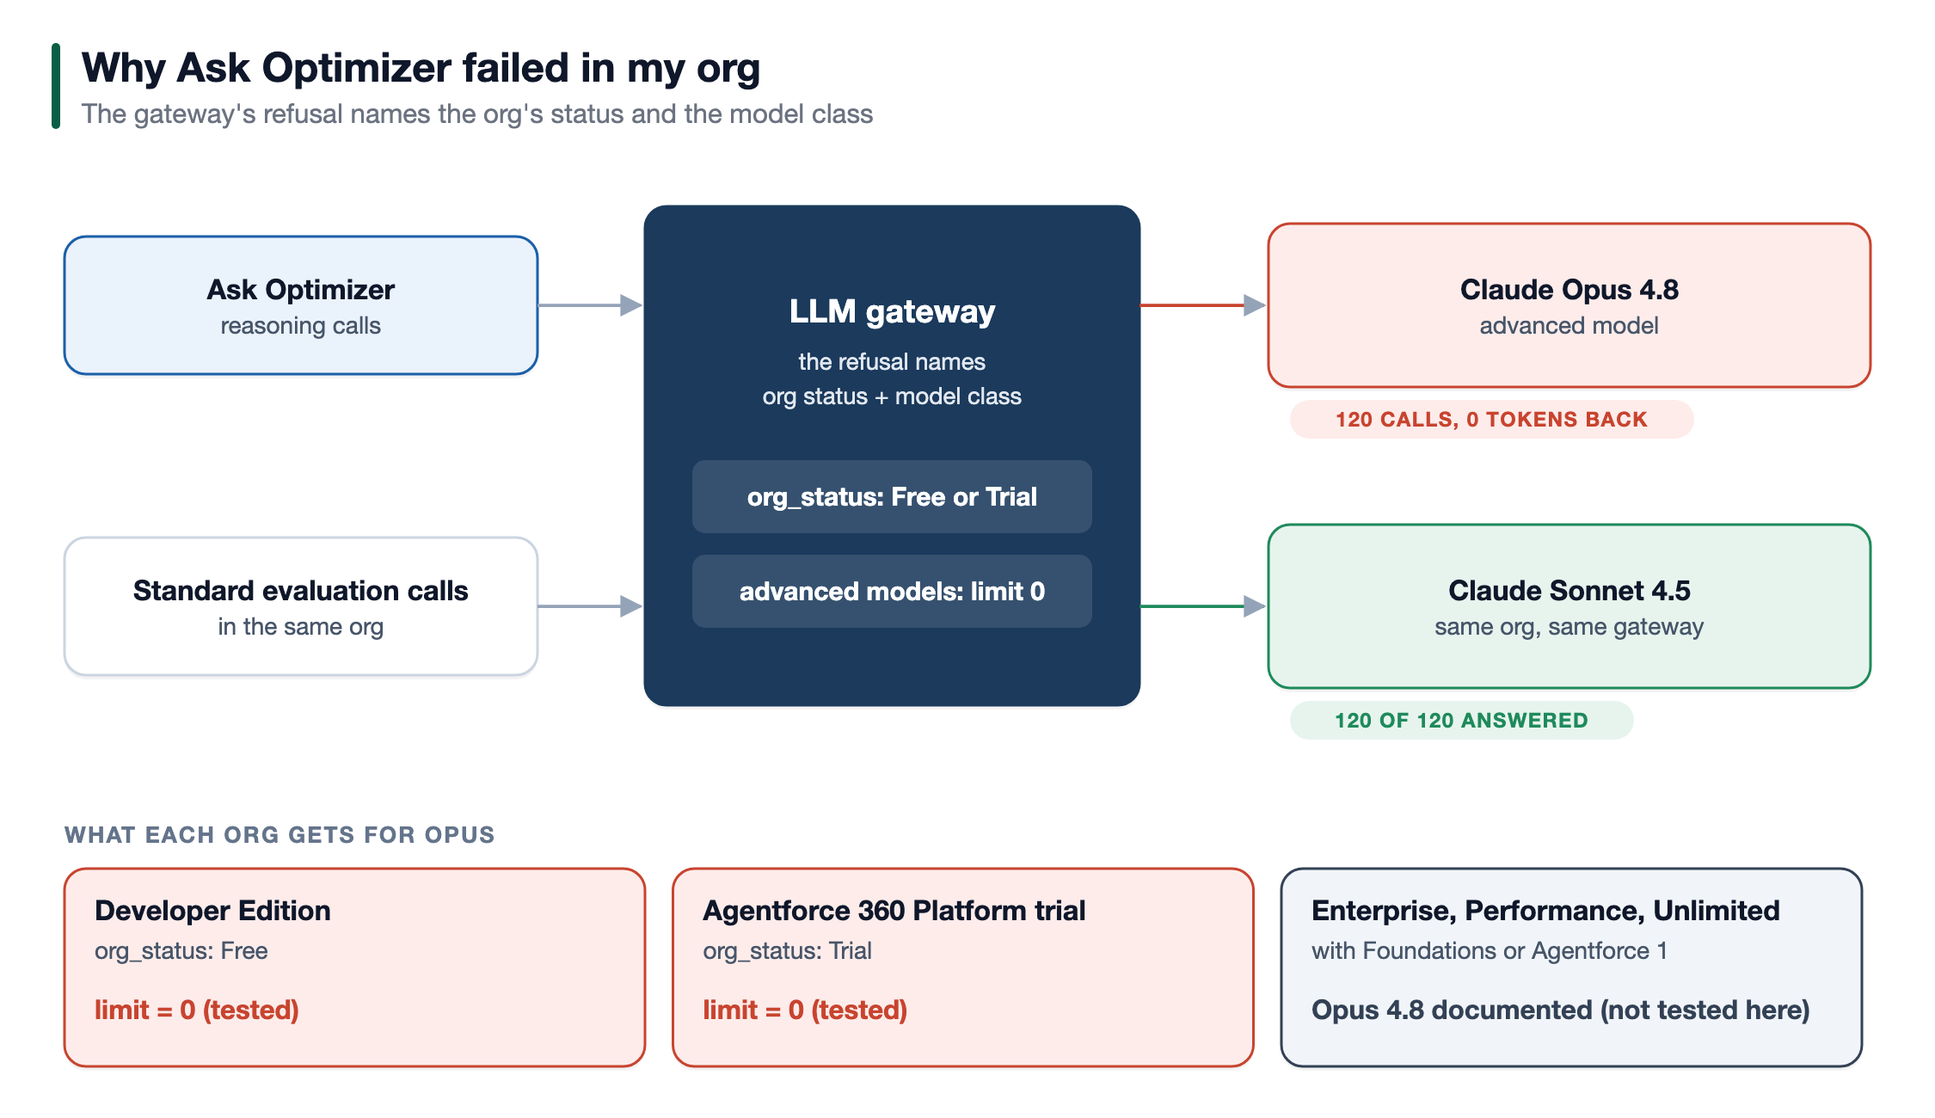
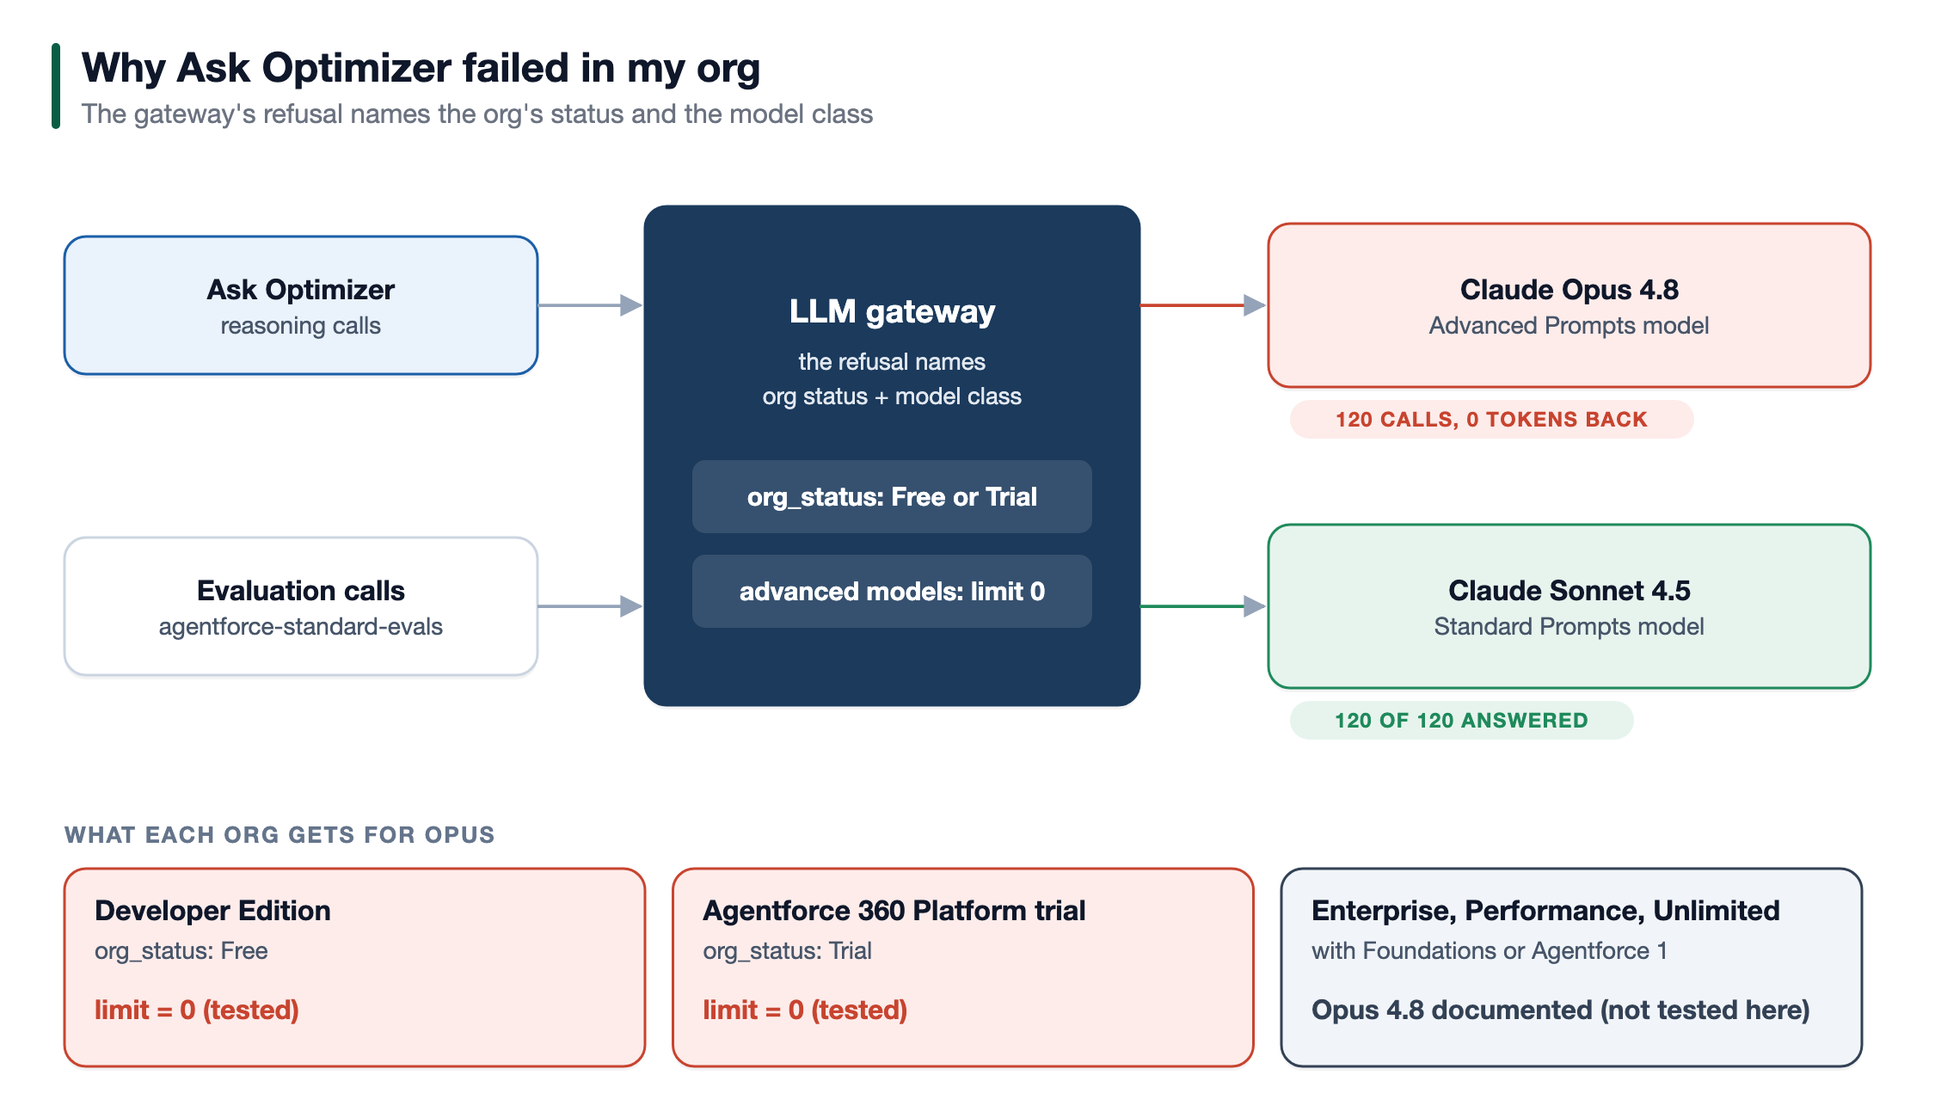
Make the after half runnable and back every claim with stored evidence
- npm run deploy now deploys only the object, flows, Apex and permission
  sets; the agent is published by sf agent publish and the test definition
  goes in afterwards with npm run deploy:test
- Running the test: one CLI path, the Optimizer setup and permission set,
  a timeframe guard so Optimizer never reads test runs, and the v2 steps
- New section on using the method with your own agent, including the
  production-to-sandbox pattern Salesforce describes
- Judge after runs question by question instead of by a flip-count total
- Cite Salesforce's free/trial Advanced Prompts rule and model list
- Store the raw model-check output (Developer Edition and trial) and the
  gateway's model calls by feature; add npm run logs:models
- Scripts work from paths with spaces and on Windows; the scorer refuses a
  phase with missing runs
- Fix the setup-steps figure order, drop "Part 2" from the loop figure, and
  reference every image

Changed region(s): [[0.0622, 0.5231, 0.2489, 0.5846], [0.7467, 0.2769, 0.9022, 0.3077], [0.7467, 0.5538, 0.8711, 0.5846]]

diff --git a/README.md b/README.md
@@ -16,9 +16,13 @@ problems, and score it again. Same questions. Same rules. Only the agent
 changes.
 
 The "before" is done: the day-one agent passes **17 of 30** questions. The
-"after" was blocked in the free and trial orgs I tested, and this repo shows
-why: Agent Optimizer reasons with Claude Opus, and in both orgs Salesforce's
-gateway refused Opus with a limit of **zero**, naming the org as Free or Trial.
+"after" was blocked in the free and trial orgs I tested. There, Agent
+Optimizer's reasoning calls went to Claude Opus 4.8, and Salesforce's gateway
+refused Opus with a limit of **zero**, naming the org as Free or Trial.
+Salesforce documents the rule: models configured for Advanced Prompts, Opus 4.8
+among them, are unavailable in free and trial orgs
+([release note](https://help.salesforce.com/s/articleView?id=release-notes.rn_einstein_models_new_limits_free_trial.htm&release=264&type=5),
+[model list](https://help.salesforce.com/s/articleView?id=ai.generative_ai_large_language_model_support.htm&type=5)).
 Everything here is ready to run the after half in an org that can call Opus.
 
 ### At a glance
@@ -35,7 +39,8 @@ Everything here is ready to run the after half in an org that can call Opus.
 **Contents:** [What's here](#whats-here) ·
 [What makes the test fair](#what-makes-the-test-fair) ·
 [Quick start](#quick-start) · [Running the test](#running-the-test) ·
-[Results](#results) · [Lessons](#what-building-this-taught-me) ·
+[Your own agent](#using-it-on-your-own-agent) · [Results](#results) ·
+[Lessons](#what-building-this-taught-me) ·
 [Repo layout](#repo-layout) · [Verify everything](#verify-everything)
 
 ---
@@ -68,10 +73,13 @@ from the 60 practice conversations. `npm run check` fails if a practice line
 shares four words in a row with a test question, or mentions a test order or
 email.
 
+![The test loop: the test set scores the agent and never reaches Optimizer](docs/images/loop.png)
+
 **Three runs, not one.** Agents do not give the same answer every time. Each
 version runs the full set three times, and a question passes if it passes in
-at least two. The three baseline runs also show how much the score moves when
-nothing has changed. A gain smaller than that is noise.
+at least two. The three baseline runs also show how much the result moves
+when nothing has changed: five questions flipped. So judge an "after" run
+question by question, not by its total (see [Results](#results)).
 
 **Security in the flow, judgment in the agent.** Both flows return order data
 only when the order number and the email match. A wrong email and a missing
@@ -95,11 +103,13 @@ The 30-day return window lands the same way every time.
 
 ## Quick start
 
-**Check the model first.** Agent Optimizer reasons with Claude Opus, which
-was limited to zero calls in the Developer Edition and trial orgs I tested. Run
-`npm run check:model -- --target-org <your-org>` before
-anything else: if Opus is refused with `limit=0`, Optimizer can't reach
-the model it reasons with there.
+**Check the model first.** In the Developer Edition and trial orgs I tested,
+Agent Optimizer's reasoning calls went to Claude Opus 4.8, which those orgs
+could not call. Once you have logged in (below), run
+`npm run check:model -- --target-org <your-org>` before anything else: if
+Opus is refused with `limit=0`, Optimizer can't reach the model it reasons
+with there. If your gateway logs show Optimizer calling a newer Opus, put
+that model's API name in the script.
 
 **Requirements:** Salesforce CLI 2.150+, Node 22+, and an org with Agentforce,
 Testing Center, Lightning Knowledge, and Data Cloud. Knowledge answers go
@@ -107,6 +117,11 @@ through an Agentforce Data Library, and a Data Library needs Data Cloud. The
 baseline runs in a Developer Edition org. The "after" half also needs Agent
 Optimizer (Beta), turned on in Setup, in an org where the check above shows
 Opus answering: a sandbox of a paid Agentforce org is the likely fit.
+
+**Cost:** Salesforce says Testing Center runs consume requests and credits.
+The full method is 180 test executions (30 questions, three runs, two
+versions) plus 60 practice conversations. Salesforce also says using Agent
+Optimizer itself doesn't consume Agentforce credits.
 
 > **Never use a production org.** Testing Center runs your actions for real, so
 > Create Return Case opens real Cases, and test runs use credits. Use a sandbox,
@@ -122,7 +137,7 @@ sf org login web --alias optimizer-test
 sf org display --target-org optimizer-test   # confirm it is NOT production
 sf config set target-org=optimizer-test
 
-npm run deploy                         # object, fields, flows, Apex test, permission sets
+npm run deploy                         # object, fields, flows, Apex test, permission sets (not the agent or the test)
 sf org assign permset --name Store_Orders_Admin
 npm run test:apex                      # both flows: match, wrong email, missing order
 npm run load:orders                    # the 12 sample orders, dated from today
@@ -146,22 +161,68 @@ and no Agent Optimizer. Run the real test in an org that has both.
 
 ## Running the test
 
-1. **Save the day-one agent as version 1** and activate it. Every baseline run
-   uses this version.
+1. **Publish and activate the day-one agent as version 1**, following
+   [docs/agent-setup.md](docs/agent-setup.md). Every baseline run uses this
+   version.
 2. **Re-run `npm run load:orders`** on the day you test, so the dates are fresh.
-3. **Load the test set into Testing Center.** Start from your org's CSV template
-   and copy the columns across from `test-set/test-set.csv`. See
+3. **Deploy the test:** `npm run deploy:test`. It is the 30 questions as the
+   Testing Center test `Store_Agent_30_Questions`, pointed at version 1. To
+   use the Testing Center screens instead, see
    [test-set/README.md](test-set/README.md).
-4. **Run it three times.** Copy each run's Pass or Fail into a copy of the
-   scoring sheet. Save each raw export in `results/baseline/`.
-5. **Turn on session tracing, then run the 60 practice conversations** against
-   the agent with `npm run practice -- <org>`, and point Optimizer at those
-   sessions. Never at the test set. See [practice/README.md](practice/README.md).
-6. **Review each recommendation against its evidence.** Apply only what points
+4. **Run it three times, then score:**
+
+   ```bash
+   sf agent test run --api-name Store_Agent_30_Questions --wait 90 \
+     --result-format json --output-dir results/baseline/run-1
+   # the same for run-2 and run-3, then:
+   npm run score -- baseline
+   ```
+
+   Your runs replace mine in `results/baseline/`; git keeps mine. Read every
+   answer the AI judge failed or passed, and log any verdict you overrule,
+   with its reason, in `results/baseline/overrides.csv`.
+5. **Turn on what Optimizer needs.** In Setup, Einstein Audit, Analytics,
+   and Monitoring Setup, turn on Agentforce Session Tracing (it turns on Agent
+   Optimization too), then Agent Optimizer (Beta) beneath it, and assign
+   yourself the **Access Agentforce Optimization** permission set. Tracing
+   records only conversations that start after it is on.
+
+   ![Session Tracing, Agent Optimization and Agent Optimizer (Beta) turned on in Setup](docs/images/setup-agent-optimizer-on.png)
+
+   ![From a fresh org to Ask Optimizer, in six steps](docs/images/setup-steps.png)
+
+6. **Run the 60 practice conversations** with `npm run practice -- <org>`.
+   They run your actions for real, so return requests open real Cases. See
+   [practice/README.md](practice/README.md).
+7. **Ask Optimizer about those sessions**, in Agentforce Studio under
+   Observe & Optimize. Name a timeframe in every question, one that holds the
+   practice sessions and no test run: without one, Optimizer picks a recent
+   default. Never upload the test set where Optimizer can read it.
+8. **Review each recommendation against its evidence.** Apply only what points
    to real failed conversations, changes only the agent, and stays inside what
    the agent was built to do. Log each decision in `results/recommendations.md`.
-7. **Save the changed agent as version 2** and run the same 30 questions three
-   more times. Save the raw exports in `results/after/`.
+9. **Publish the changed agent as version 2.** Change `subjectVersion` in
+   [the test definition](force-app/main/default/aiEvaluationDefinitions/Store_Agent_30_Questions.aiEvaluationDefinition-meta.xml)
+   to `v2`, run `npm run deploy:test`, run the same 30 questions three times
+   into `results/after/run-1` to `run-3`, and run `npm run score -- after`.
+
+## Using it on your own agent
+
+The sample agent shows the method. To hold Optimizer to account on your own
+agent:
+
+- **Write the questions from real transcripts,** across every subagent, and
+  include traps where the right answer is "no".
+- **Write the practice set from different transcripts,** and keep it free of
+  the test's wording, order numbers and customers.
+- **Find out which actions Testing Center records for your agent** before you
+  write the expected actions. Here, it never recorded the knowledge lookup or
+  the template's escalation step.
+- **Lock the test before run 1.** Add questions later; never edit old ones.
+- **Ask Optimizer where your real sessions are, and test in a sandbox.** In a
+  paid org, real sessions live in production, and Salesforce says to use
+  Testing Center only in a sandbox. Apply the recommendations to the agent in
+  a sandbox, run the test there, and promote only what passes.
 
 ---
 
@@ -194,7 +255,12 @@ The totals hide two things, and `npm run score` prints both:
   and fail with no change to the agent: OS-01, OS-05, OS-06, RT-02 and RT-03.
   Every one needed an order lookup, and each flip came down to whether the
   agent called Get Order Status. Routing mistakes failed in all three runs.
-  Treat an "after" gain of five or fewer as noise.
+  So the total alone can't tell a fix from luck. Judge the after runs
+  question by question: a question that failed every baseline run and passes
+  every after run is a real gain. For one that already flipped, check the
+  actions: if the lookup now runs every time, the fix is working. Anything
+  that passed every baseline run and fails two of three after runs is a
+  regression. Three runs are the minimum; five catch more of the noise.
 - **Answers alone flatter the agent.** Graded only on its answers, after the
   human review, the agent passes 24 of 30 in each run. Seven questions sounded right but skipped a
   lookup or went to the wrong subagent. None of the 36 failed runs failed on
@@ -207,8 +273,8 @@ Setup was complete, but every question to Ask Optimizer failed.
 
 ![Ask Optimizer failing next to a working Agent Analytics page](docs/images/ask-optimizer-error.png)
 
-Its reasoning calls go to Claude Opus 4.8, and Salesforce's model gatekeeper
-refuses them:
+In the gateway logs, its reasoning calls went to Claude Opus 4.8 (120 calls,
+0 tokens back). A direct call from Apex shows the gatekeeper's refusal:
 
 ```
 429 LLM_GATEKEEPER: You have exceeded your rate limit. Please try again later.
@@ -216,9 +282,15 @@ refuses them:
 ```
 
 The same limit of zero appears in an Agentforce 360 Platform trial org
-(`org_status:Trial`). Claude Sonnet answers in both. Run
-[`check-model-access.apex`](scripts/apex/check-model-access.apex) to see what
-your org reports.
+(`org_status:Trial`). Claude Sonnet answers in both. The raw outputs are in
+[`results/model-check/`](results/model-check), and the logged calls behind the
+figure below are in [`results/gateway/`](results/gateway). Salesforce's
+[release note](https://help.salesforce.com/s/articleView?id=release-notes.rn_einstein_models_new_limits_free_trial.htm&release=264&type=5)
+says models configured for Advanced Prompts are unavailable in free and trial
+orgs, and its [model list](https://help.salesforce.com/s/articleView?id=ai.generative_ai_large_language_model_support.htm&type=5)
+puts Opus 4.8 under Advanced Prompts and Sonnet 4.5 under Standard Prompts.
+Run `npm run check:model` to see what your org reports, and, with Einstein
+audit data on, `npm run logs:models` to see which model each feature called.
 
 ![Why Ask Optimizer fails in free and trial orgs](docs/images/gate.png)
 
@@ -227,21 +299,26 @@ your org reports.
 ## What building this taught me
 
 **Agent Optimizer depends on a model your org may not be allowed to call.**
-The Setup switch appears in a Developer Edition org, but Optimizer reasons
-with Claude Opus, which my Developer Edition and trial orgs could not call. The
-error you see is only "I ran into an error while analyzing your question."
-Check model access first.
+The Setup switch appears in a Developer Edition org, but Optimizer's
+reasoning calls went to Claude Opus, which my Developer Edition and trial
+orgs could not call. The error you see is only "I ran into an error while
+analyzing your question." Check model access first.
+
+**Don't switch the org's model to Gemini to get around it.** It didn't change
+Optimizer's model, and Salesforce warns that a Gemini org-level default stops
+Agent Optimization from working.
 
 **Testing Center does not record every action.** The knowledge lookup and the
 template's escalation step never appear in a run's invoked actions, even when
-the answer clearly comes from them. Expect them, and those questions fail every
-run whatever the agent does.
+the answer clearly comes from them. List them as expected actions and those
+questions fail every run whatever the agent does, so the scorer leaves them
+out: those questions are judged on the route and the answer.
 
 **Score the exact set of actions.** Rather than rely on Testing Center's own
 action check, `npm run score` compares the exact set of actions each run
 invoked in the raw results, so an extra return case counts as a failure.
 
-**The AI judge needs a human.** It scored word-for-word identical answers
+**Testing Center's AI judge needs a human.** It scored word-for-word identical answers
 differently in different runs. Without review, the baseline reads 16 instead
 of 17, and the noise looks like 8 flips instead of 5.
 
@@ -293,6 +370,8 @@ scripts/
 test-set/                          the 30 questions, the spec and the scoring sheet
 practice/                          the 60 practice conversations and their transcripts
 results/baseline/                  raw results, scores and reviewed overrides
+results/model-check/               raw output of the model check, Developer Edition and trial
+results/gateway/                   the gateway's model calls, counted by feature
 docs/agent-setup.md                the day-one agent, word for word
 docs/images/                       figures and screenshots
 ```
@@ -308,6 +387,7 @@ npm run build:test-spec       # regenerate the Testing Center spec after editing
 npm run test:apex             # the flow tests, in your org
 npm run score -- baseline     # score the raw baseline results, with reviewed overrides
 npm run check:model           # can this org call the model Optimizer needs?
+npm run logs:models           # which model each feature called (Einstein audit data on)
 ```
 
 `npm run check` recomputes every expected lookup and return decision in the
@@ -331,13 +411,14 @@ field's 1,000-character limit, which `npm run check` enforces.
 
 Deployed and tested on a Developer Edition scratch org (API 68.0, source at
 67.0) with Salesforce CLI 2.150.6 and Node 22.14, on 24 October 2026: the
-deploy, all Apex tests, and both loaders run twice to prove they are safe to
-re-run. The same setup was then repeated in a Developer Edition org with Data
+object, flows, Apex tests and permission sets, all Apex tests, and both
+loaders run twice to prove they are safe to re-run. The agent and the test
+definition were added on 25 October. The same setup was then repeated in a Developer Edition org with Data
 Cloud on 25 October 2026. There the agent was published and activated, its
 order action ran as the agent's user, and its knowledge action answered from
 the store's articles through the Data Library. The baseline ran there on 26
 October 2026. The model gate was measured
-on 26 and 27 October 2026 in that Developer Edition org and in an Agentforce
+from 26 to 28 October 2026 (UTC) in that Developer Edition org and in an Agentforce
 360 Platform trial. Agentforce moves quickly; if something here has drifted,
 trust the org over this README.
 

diff --git a/practice/README.md b/practice/README.md
@@ -35,8 +35,10 @@ script. Order numbers in the RO-20xx range do not exist on purpose.
 
    The script runs `npm run check` first and refuses to send a line that
    matches a test question. Each transcript is saved under `practice/runs/`.
-3. Point Optimizer at those sessions. Never point it at the test set, and
-   never upload `test-set/test-set.csv` anywhere Optimizer can read it.
+   The agent's actions run for real, so return requests open real Cases.
+3. Ask Optimizer about those sessions, and name a timeframe that holds them
+   and no test run. Never upload `test-set/test-set.csv` anywhere Optimizer
+   can read it.
 
 ## A note on setup previews
 
@@ -46,3 +48,8 @@ That breaks the rule in [docs/agent-setup.md](../docs/agent-setup.md) to check
 the setup with questions outside the test set. Session tracing was not on yet,
 so those previews left no record for Optimizer to read. The 60 practice
 conversations ran after tracing was turned on.
+
+`runs/2026-10-26/PR-01.before-tracing.json` is a first try of PR-01, sent
+about five minutes after tracing was switched on. It never appeared among the
+recorded sessions. PR-01 was sent again with the full run (`PR-01.json`), and all 60 were
+confirmed recorded. Give tracing a few minutes before you start.

diff --git a/results/README.md b/results/README.md
@@ -22,15 +22,26 @@ results/
     scores.md
     overrides.csv
   recommendations.md             each Optimizer recommendation, applied or not, and why
+  model-check/                   npm run check:model output, Developer Edition and trial
+  gateway/                       npm run logs:models output: model calls by feature
 ```
 
-Run a phase with the Salesforce CLI, three times:
+`model-check/` and `gateway/` hold the evidence for why the after phase has
+not run: in both orgs, Claude Sonnet answered and Claude Opus was refused
+with `limit=0`, and in the Developer Edition org, Agent Optimizer sent 120
+calls to Opus and got 0 tokens back.
+
+Run a phase with the Salesforce CLI, three times, after `npm run deploy:test`:
 
 ```bash
 sf agent test run --api-name Store_Agent_30_Questions --wait 90 \
   --result-format json --output-dir results/baseline/run-1
 npm run score -- baseline
 ```
+
+For the after phase, set `subjectVersion` to `v2` in the test definition,
+run `npm run deploy:test` again, and write to `results/after/run-1` to
+`run-3`. `npm run score` refuses a phase until all three runs are there.
 
 Rules for this folder:
 

diff --git a/docs/agent-setup.md b/docs/agent-setup.md
@@ -8,7 +8,11 @@ the test measures.
 The whole agent is in one Agent Script file:
 [`Gear_Store_Service_Agent.agent`](../force-app/main/default/aiAuthoringBundles/Gear_Store_Service_Agent/Gear_Store_Service_Agent.agent).
 You can publish that file, or build the same agent by hand in Agentforce
-Builder. Both routes give the same agent.
+Builder. Both routes give the same agent. The file doesn't pin a model, so
+the agent runs on your org's default model, and your baseline may differ from
+mine. That is why you run your own.
+
+![The test agent: three custom subagents do the work, and three standard ones catch the rest](images/agent.png)
 
 Build it after `npm run deploy`, `npm run load:orders` and
 `npm run load:knowledge` (see the [README](../README.md#quick-start)).
@@ -145,6 +149,8 @@ flow), and Answer Questions with Knowledge.
 **Actions:** Answer Questions with Knowledge.
 
 ## 5. Action inputs and outputs
+
+![Both action flows check the email before they return or change anything](images/flows.png)
 
 | Flow | Inputs | Outputs |
 | --- | --- | --- |
